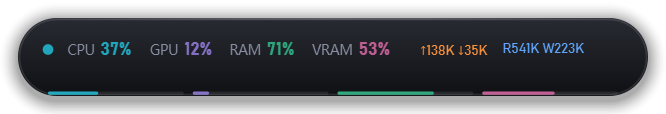
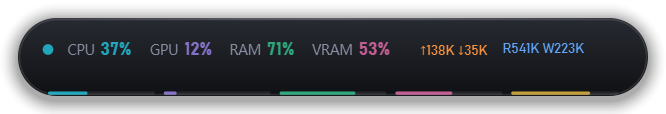
横版胶囊底部占用条加提交内存段（五段）

diff --git a/ui/island.py b/ui/island.py
@@ -2004,7 +2004,7 @@ class IslandWindow(QWidget):
                 p.drawText(QRectF(x + 8, cy - 12, avail, 24),
                            Qt.AlignLeft | Qt.AlignVCenter, net_txt)
 
-        # 底部：有声音就变成频谱律动，没声音回到占用条（CPU/GPU/RAM/VRAM 四段）
+        # 底部：有声音就变成频谱律动，没声音回到占用条（CPU/GPU/RAM/VRAM/提交 五段）
         bar_y = body.bottom() - 3
         if self._spec_level > 0.01 or media.get("playing"):
             self._paint_micro_spec(
@@ -2015,6 +2015,8 @@ class IslandWindow(QWidget):
         bar_h = 2.2
         gap = 6
         segs = [(pct, color) for _, _, pct, color in items]
+        if d.get("commit_limit"):
+            segs.append((float(d.get("commit_pct", 0.0) or 0.0), T.COMMIT))
         seg_w = (body.width() - margin * 2 - gap * (len(segs) - 1)) / float(len(segs))
         bx = left
         for pct, color in segs:
